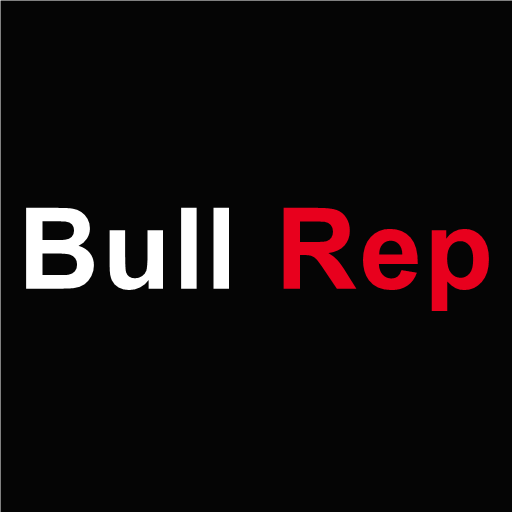
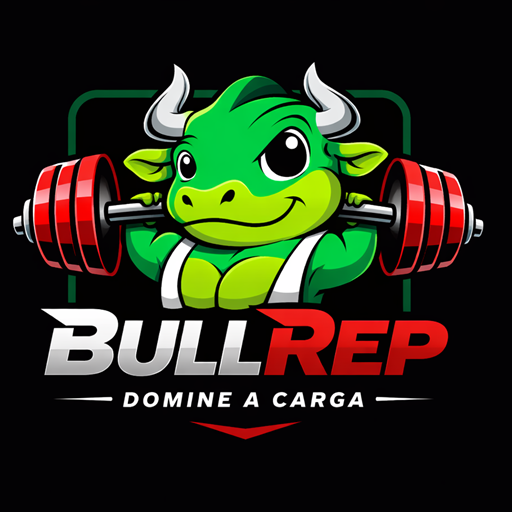
Ajustes imagem

diff --git a/src/app/api/auth/register/route.ts b/src/app/api/auth/register/route.ts
@@ -1,5 +1,6 @@
 import { NextRequest, NextResponse } from 'next/server';
 import bcrypt from 'bcryptjs';
+import { Prisma } from '@prisma/client';
 
 import { prisma } from '@/lib/prisma';
 import { signToken } from '@/lib/auth';
@@ -44,7 +45,7 @@ export async function POST(req: NextRequest) {
         fitnessLevel: fitness_level || null,
         frequency: frequency || null,
         avatarUrl: typeof avatar_url === 'string' ? avatar_url.trim() : null,
-      } as never,
+      },
     });
 
     
@@ -79,6 +80,19 @@ export async function POST(req: NextRequest) {
     return response;
   } catch (err) {
     console.error('[API] register error:', err);
+
+    if (err instanceof Prisma.PrismaClientKnownRequestError) {
+      if (err.code === 'P2002') {
+        return NextResponse.json({ error: 'Este e-mail já está cadastrado.' }, { status: 409 });
+      }
+      if (err.code === 'P2021') {
+        return NextResponse.json({ error: 'Tabela de usuários não encontrada no banco.' }, { status: 500 });
+      }
+      if (err.code === 'P2022') {
+        return NextResponse.json({ error: 'Estrutura do banco desatualizada. Rode a migração.' }, { status: 500 });
+      }
+    }
+
     const message = err instanceof Error ? err.message : 'Erro interno ao criar conta. Tente novamente.';
     return NextResponse.json(
       { error: process.env.NODE_ENV === 'development' ? message : 'Erro interno ao criar conta. Tente novamente.' },